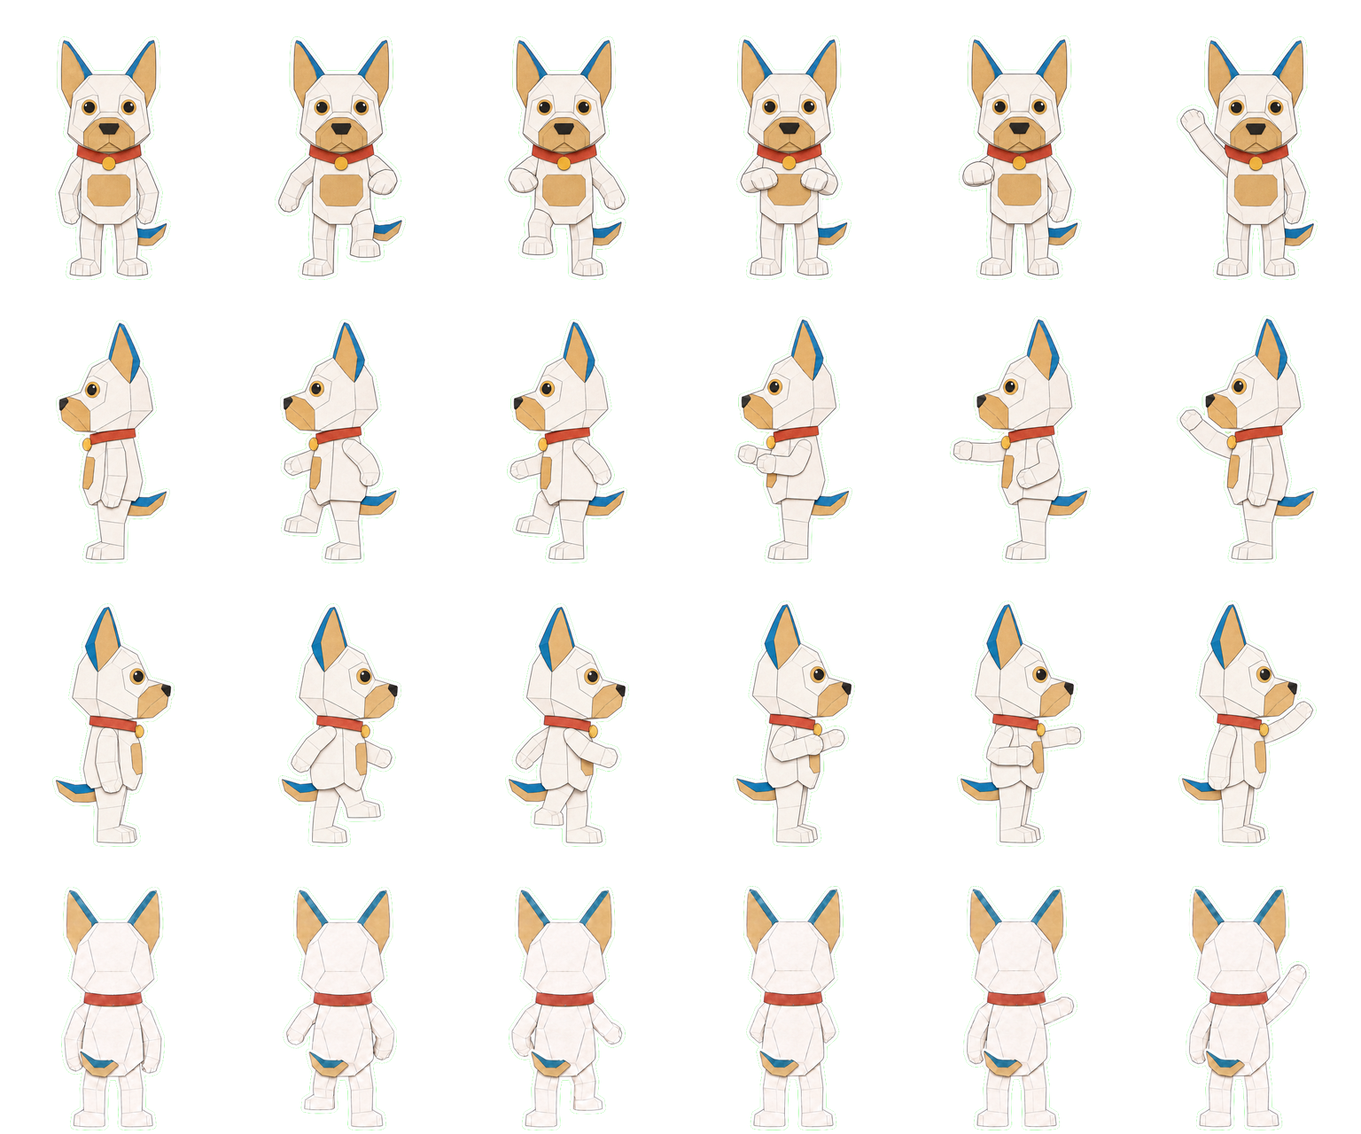
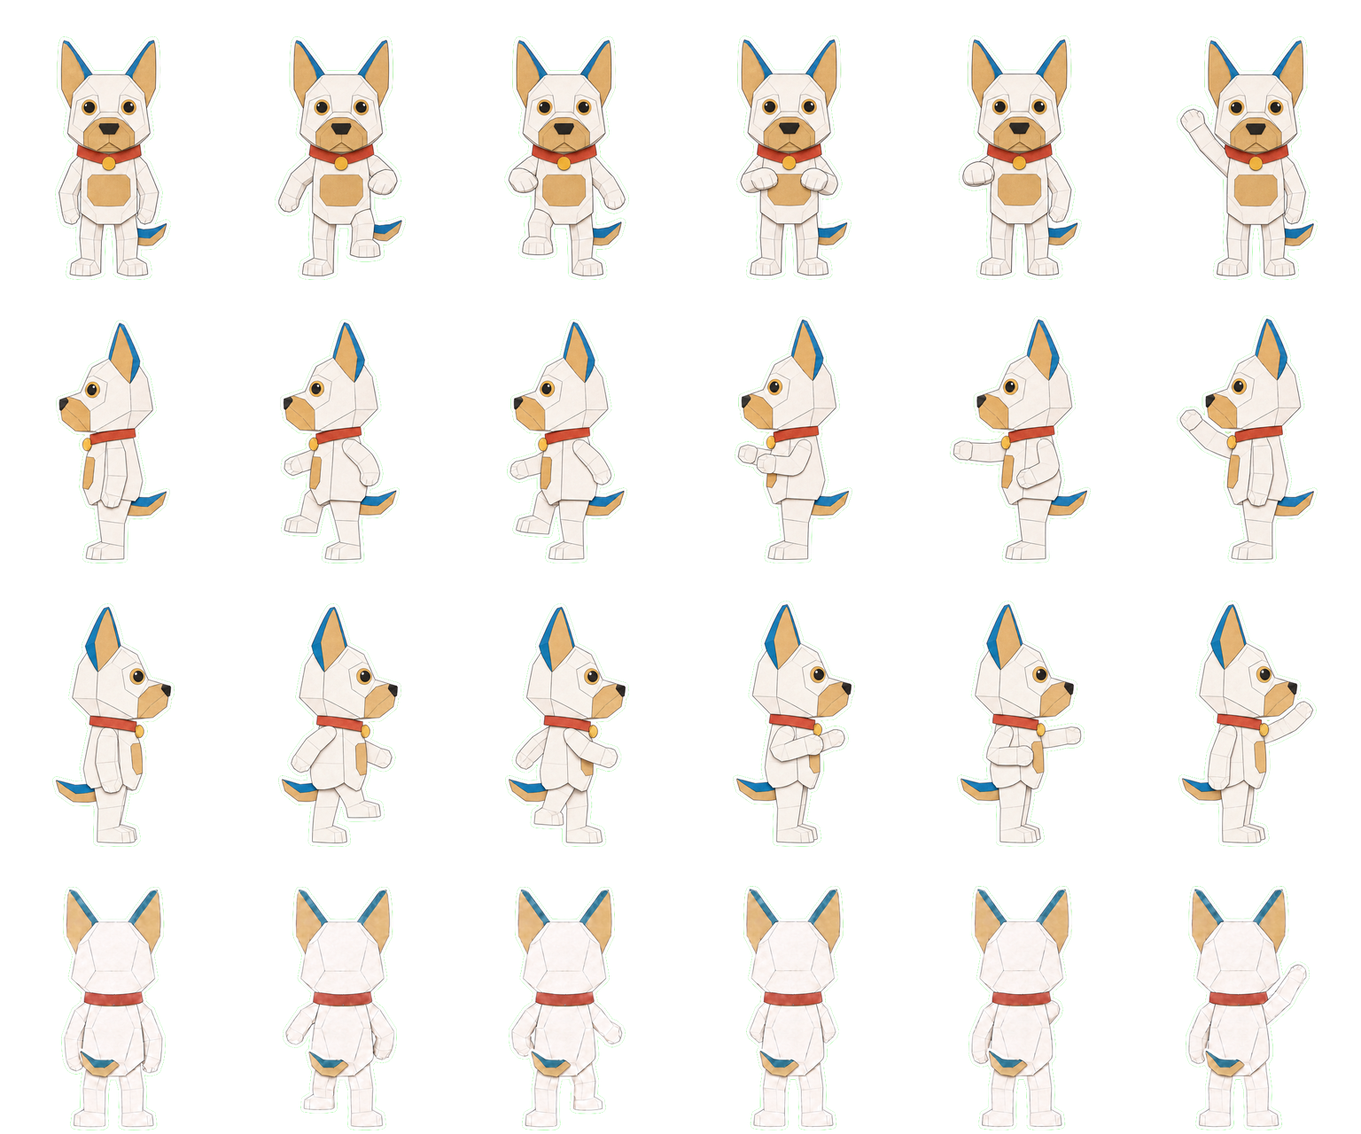
Primepaw: the robot dog's pushing cell seen from behind hides the paw
The back walk sheet drew the fifth cell, the paw pushed forward, with that arm
raised out to the side and the paw showing. A GPT Image 2.6 edit (seed 20261143)
sends the arm forward so only a stub shows at the shoulder, the way the cat's
back sheet has it, and changes nothing else. pet/robot-walk.png is rebuilt and
uploaded to the canvas as a new asset; the Pets boards name it. The pet README
carries the edit and its prompt. Canvas v122.

diff --git a/mockups/primepaw/DioramaPets.dc.html b/mockups/primepaw/DioramaPets.dc.html
@@ -200,7 +200,7 @@ const STATES = [{ id: 'roam', t: 'Roam' }, { id: 'working', t: 'Work' }, { id: '
 const onStandee = (fn) => window.PetStandee ? fn(window.PetStandee) : document.addEventListener('pet-standee', () => fn(window.PetStandee), { once: true });
 const FACING = (dx, dy) => Math.abs(dx) >= Math.abs(dy) ? (dx >= 0 ? 'right' : 'left') : (dy >= 0 ? 'down' : 'up');
 const BUBBLE = { working: 'Writing the parser', attention: 'Needs a staging token' };
-const SHEETS = {"robot":{"layout":"sheet","cols":6,"rows":4,"cell":{"w":256,"h":320},"columns":["stand","stomp-left","stomp-right","work-up","work-forward","wave"],"facings":["down","left","right","up"],"sheet":{"w":1536,"h":1280},"standing":0.86,"src":"/_blob/1748ca6490dbedc469a09eccde205f1f"},"dog":{"layout":"sheet","cols":6,"rows":4,"cell":{"w":256,"h":320},"columns":["stand","stomp-left","stomp-right","work-up","work-forward","wave"],"facings":["down","left","right","up"],"sheet":{"w":1536,"h":1280},"standing":0.86,"src":"/_blob/bd60c38b84f66616f8224e74bdf4d2cf"},"cat":{"layout":"sheet","cols":6,"rows":4,"cell":{"w":256,"h":320},"columns":["stand","stomp-left","stomp-right","work-up","work-forward","wave"],"facings":["down","left","right","up"],"sheet":{"w":1536,"h":1280},"standing":0.86,"src":"/_blob/eea99f7a9ab642aecf06ca931c83d617"}}, WALK_H = 104; // the standing figure's height on the floor
+const SHEETS = {"robot":{"layout":"sheet","cols":6,"rows":4,"cell":{"w":256,"h":320},"columns":["stand","stomp-left","stomp-right","work-up","work-forward","wave"],"facings":["down","left","right","up"],"sheet":{"w":1536,"h":1280},"standing":0.86,"src":"/_blob/21d0915356dadf4fbcb2992c973934bc"},"dog":{"layout":"sheet","cols":6,"rows":4,"cell":{"w":256,"h":320},"columns":["stand","stomp-left","stomp-right","work-up","work-forward","wave"],"facings":["down","left","right","up"],"sheet":{"w":1536,"h":1280},"standing":0.86,"src":"/_blob/bd60c38b84f66616f8224e74bdf4d2cf"},"cat":{"layout":"sheet","cols":6,"rows":4,"cell":{"w":256,"h":320},"columns":["stand","stomp-left","stomp-right","work-up","work-forward","wave"],"facings":["down","left","right","up"],"sheet":{"w":1536,"h":1280},"standing":0.86,"src":"/_blob/eea99f7a9ab642aecf06ca931c83d617"}}, WALK_H = 104; // the standing figure's height on the floor
 const SPEED = 92; // px per second
 // the round: feet points on the floor (x as a share of the floor's width, since the floor is as wide as its column;
 // y in px, since it is always 260 tall), what a walker does when it gets to each corner, and the corner each starts at

diff --git a/mockups/primepaw/DioramaPetsDark.dc.html b/mockups/primepaw/DioramaPetsDark.dc.html
@@ -200,7 +200,7 @@ const STATES = [{ id: 'roam', t: 'Roam' }, { id: 'working', t: 'Work' }, { id: '
 const onStandee = (fn) => window.PetStandee ? fn(window.PetStandee) : document.addEventListener('pet-standee', () => fn(window.PetStandee), { once: true });
 const FACING = (dx, dy) => Math.abs(dx) >= Math.abs(dy) ? (dx >= 0 ? 'right' : 'left') : (dy >= 0 ? 'down' : 'up');
 const BUBBLE = { working: 'Writing the parser', attention: 'Needs a staging token' };
-const SHEETS = {"robot":{"layout":"sheet","cols":6,"rows":4,"cell":{"w":256,"h":320},"columns":["stand","stomp-left","stomp-right","work-up","work-forward","wave"],"facings":["down","left","right","up"],"sheet":{"w":1536,"h":1280},"standing":0.86,"src":"/_blob/1748ca6490dbedc469a09eccde205f1f"},"dog":{"layout":"sheet","cols":6,"rows":4,"cell":{"w":256,"h":320},"columns":["stand","stomp-left","stomp-right","work-up","work-forward","wave"],"facings":["down","left","right","up"],"sheet":{"w":1536,"h":1280},"standing":0.86,"src":"/_blob/bd60c38b84f66616f8224e74bdf4d2cf"},"cat":{"layout":"sheet","cols":6,"rows":4,"cell":{"w":256,"h":320},"columns":["stand","stomp-left","stomp-right","work-up","work-forward","wave"],"facings":["down","left","right","up"],"sheet":{"w":1536,"h":1280},"standing":0.86,"src":"/_blob/eea99f7a9ab642aecf06ca931c83d617"}}, WALK_H = 104; // the standing figure's height on the floor
+const SHEETS = {"robot":{"layout":"sheet","cols":6,"rows":4,"cell":{"w":256,"h":320},"columns":["stand","stomp-left","stomp-right","work-up","work-forward","wave"],"facings":["down","left","right","up"],"sheet":{"w":1536,"h":1280},"standing":0.86,"src":"/_blob/21d0915356dadf4fbcb2992c973934bc"},"dog":{"layout":"sheet","cols":6,"rows":4,"cell":{"w":256,"h":320},"columns":["stand","stomp-left","stomp-right","work-up","work-forward","wave"],"facings":["down","left","right","up"],"sheet":{"w":1536,"h":1280},"standing":0.86,"src":"/_blob/bd60c38b84f66616f8224e74bdf4d2cf"},"cat":{"layout":"sheet","cols":6,"rows":4,"cell":{"w":256,"h":320},"columns":["stand","stomp-left","stomp-right","work-up","work-forward","wave"],"facings":["down","left","right","up"],"sheet":{"w":1536,"h":1280},"standing":0.86,"src":"/_blob/eea99f7a9ab642aecf06ca931c83d617"}}, WALK_H = 104; // the standing figure's height on the floor
 const SPEED = 92; // px per second
 // the round: feet points on the floor (x as a share of the floor's width, since the floor is as wide as its column;
 // y in px, since it is always 260 tall), what a walker does when it gets to each corner, and the corner each starts at

diff --git a/mockups/primepaw/pet/README.md b/mockups/primepaw/pet/README.md
@@ -144,9 +144,11 @@ back; it took two edits of that sheet to land the tail (the prompts below): the 
 and the second (seeds 20261140 and 20261141, the second kept) moved its base to the centre of the
 rump, where the puppy's is. A third edit (seed 20261142) then fixed the typing cell, which the sheet
 had drawn with the arms bent up and the fists beside the shoulders: now the upper arms go down the
-sides and only the elbows show, the way the puppy's and the cat's do, and that one is the source.
-Its peeking frame is the tallest of the three characters because the ears stand up and the error and
-ask marks sit above them.
+sides and only the elbows show, the way the puppy's and the cat's do; and a fourth (seed 20261143)
+fixed the pushing cell, whose arm was raised out to the side with the paw showing: now it goes
+forward from the shoulder and only a stub of it shows, the paw out of sight in front, like the
+cat's. That one is the source. Its peeking frame is the tallest of the three characters because the
+ears stand up and the error and ask marks sit above them.
 
 ## The prompts
 
@@ -277,7 +279,7 @@ start.
 
 **The walk sheets** (1536 by 1024, GPT Image 2.6, the turnaround first and the body second, one per
 facing; seeds 20261108 to 20261111 for the puppy, 20261112 to 20261115 for the cat and 20261135 to 20261138 for the robot dog, down, left, right,
-up, every first seed kept but the robot dog's back, edited three times, below). The front: "The first reference image is a character turnaround of the paper cut-out a friendly floppy-eared puppy: its front, its left side, its back and its right side. The second reference image is the same character from the front. Draw the character exactly as the turnaround's first figure, the front shows it (the same cream paper face, kraft brown floppy ears and eye patch, red collar with its tag, pink cheeks, pen-ink features, the white die-cut sticker border), as a stop-motion sprite sheet: a grid of 3 columns and 2 rows, 6 cells of equal size, on a solid flat bright green (#00FF00) background, with no grid lines, no borders, no labels and no text. The 6 cells read left to right along the top row and then along the bottom row. In every cell the character is the same drawing at the same size as in the turnaround, seen straight from the front, facing the viewer, its body upright and square to the viewer in every cell, never turning, its feet on the same ground line, its head, body, ears and tail exactly alike from cell to cell, so that the six cells play as one animation of one figure. The 6 cells: 1. standing still with both paws relaxed at its sides, both feet planted, exactly like the turnaround's first figure, the front; 2. marching on the spot, a stomp: its right foot stays planted flat on the ground and its left foot is lifted a little way straight up off the ground, the foot kept flat and level exactly as it is when standing, the leg a little shorter and bent only a little at the knee, staying directly under the body, the sole never showing, the body a touch higher, the arms swinging, the left paw a little forward and the right a little back; 3. the other stomp: its left foot planted flat and its right foot lifted flat the same way, the arms swinging the other way; 4. working, both paws raised up in front of its chest as if typing on a keyboard; 5. working, one paw pushed forward as if pressing a button; 6. waving hello with one paw raised high above its head. Flat paper, no shadows, no gradients, like a paper puppet moved between photographs."
+up, every first seed kept but the robot dog's back, edited four times, below). The front: "The first reference image is a character turnaround of the paper cut-out a friendly floppy-eared puppy: its front, its left side, its back and its right side. The second reference image is the same character from the front. Draw the character exactly as the turnaround's first figure, the front shows it (the same cream paper face, kraft brown floppy ears and eye patch, red collar with its tag, pink cheeks, pen-ink features, the white die-cut sticker border), as a stop-motion sprite sheet: a grid of 3 columns and 2 rows, 6 cells of equal size, on a solid flat bright green (#00FF00) background, with no grid lines, no borders, no labels and no text. The 6 cells read left to right along the top row and then along the bottom row. In every cell the character is the same drawing at the same size as in the turnaround, seen straight from the front, facing the viewer, its body upright and square to the viewer in every cell, never turning, its feet on the same ground line, its head, body, ears and tail exactly alike from cell to cell, so that the six cells play as one animation of one figure. The 6 cells: 1. standing still with both paws relaxed at its sides, both feet planted, exactly like the turnaround's first figure, the front; 2. marching on the spot, a stomp: its right foot stays planted flat on the ground and its left foot is lifted a little way straight up off the ground, the foot kept flat and level exactly as it is when standing, the leg a little shorter and bent only a little at the knee, staying directly under the body, the sole never showing, the body a touch higher, the arms swinging, the left paw a little forward and the right a little back; 3. the other stomp: its left foot planted flat and its right foot lifted flat the same way, the arms swinging the other way; 4. working, both paws raised up in front of its chest as if typing on a keyboard; 5. working, one paw pushed forward as if pressing a button; 6. waving hello with one paw raised high above its head. Flat paper, no shadows, no gradients, like a paper puppet moved between photographs."
 
 The other three change the figure the prompt points at and the facing clause: the left side ("second
 figure, the left side"; "from the side in strict profile, turned to face the left edge of the picture, so
@@ -292,4 +294,4 @@ pushed paw is out of sight in front of it; in cells 2 and 3 the lifted foot is s
 off the ground directly under the body, the back of its heel toward the viewer, its sole never showing,
 never a leg angled out to the side").
 
-**The robot dog's back sheet** came back with two tails in every cell, the one lying across the back and a second hanging between the legs, and it took two edits of it (1536 by 1024, GPT Image 2.6, the sheet itself as the first reference and the body as the second) to land the tail, both opening the way the turnaround's edit did: "The first reference image is a stop-motion sprite sheet of a paper cut-out friendly angular robot hound seen from directly behind, facing straight away from the viewer: a grid of 3 columns and 2 rows, 6 cells of equal size, on a solid flat bright green (#00FF00) background. The second reference image is the same character from the front." The first edit (seed 20261139) took the hanging tail away: "...Reproduce the sprite sheet exactly as it is, every figure the same size and in the same place in its cell, in the same pose, with the same colours, the same pen-ink outlines, the same pen-drawn panel lines, the same faint paper grain and the same white die-cut sticker border around each figure, on the same solid flat bright green background with no grid lines, no borders, no labels and no text, changing only one thing, the same way in every one of the six cells: the robot hound has exactly one tail. Right now each figure shows two tails. The second tail, the short one hanging straight down from the middle of the bottom of its back between its legs, is removed, and that spot becomes plain sheet-white paper back panel (#fbf7ee) with the same pen-drawn panel lines, the two legs meeting the body as before. The one tail that stays is the one already sticking out sideways to the left of the picture: its short pointed kraft brown paper tail (#d9bc86) with its blue tip, starting at the centre of its rump at the bottom of its back right where the two legs meet the body and sticking out across its back to the left with its tip up near the left edge of its body, the whole tail visible, the same size, shape and colours as it is now. Nothing else about any cell changes: the head, the backs of the ears with their blue tips, the back of the red collar, the paws, the feet and each cell's pose stay exactly as they are. Flat paper, no shadows, no gradients, not 3D." It did, but the tail it kept started at the hip, at the side of the body, not at the centre the words asked for. The second (seeds 20261140 and 20261141) moved it: "...changing only one thing, the same way in every one of the six cells: where the tail starts. Right now the tail sticks out from the left hip, from the side of the body. Instead, seen from directly behind, the robot hound's short pointed kraft brown paper tail (#d9bc86) with its blue tip starts at the centre of its rump, in the middle of the bottom of its back right where the two legs meet the body, and sticks out sideways to the left of the picture, lying across the sheet-white back with its tip up near the left edge of the body. The whole tail is visible from behind: its base at the centre of the rump, its length going to the left across the back, its tip pointing up at the left, the same kraft brown paper with the same blue tip, the same pen outline and about the same size as the tail the front view shows peeking out at its hip, which is this same tail seen from the other side. It does not point straight up, does not hang down between the legs and does not start at the side of the body: it starts at the centre and goes to the left. The side of the body where the tail used to stick out becomes plain sheet-white paper (#fbf7ee) with the same panel lines, the white die-cut border following the body's outline there. Nothing else about any cell changes: the head, the backs of the ears with their blue tips, the back of the red collar, the paws, the feet and each cell's pose stay exactly as they are. Flat paper, no shadows, no gradients, not 3D." The first of that pair put the tail at the centre but hanging down between the legs; the second has it starting at the centre and sticking out to the left. That sheet's typing cell, the fourth, still had its arms bent up with the fists beside the shoulders, where the puppy's and the cat's show the upper arms going down the sides with only the elbows out; a third edit (seed 20261142, the same opening and the same two references) put them right: "...changing only one thing, in one cell only: the arms of the fourth cell, the first cell of the bottom row. In that cell the robot hound is working, both paws raised up in front of its chest as if typing on a keyboard, and seen from directly behind its paws and forearms are out of sight in front of its body. Right now that cell's arms are drawn wrong: they are bent upward with the fists raised beside its shoulders, out at the sides. Instead, its two angular sheet-white paper upper arms go straight down from its shoulders along the sides of its body, exactly as they do in the first cell, the one standing still, and about halfway down the body each elbow bends forward so that the forearm and the paw go out of sight in front of the body; from behind only the two elbows show, each poking out a little at the side of the body about halfway down its back, as a small angular sheet-white paper corner with the same pen-ink outline and panel lines, nothing raised above them and no paws visible anywhere. The head, the backs of the ears with their blue tips, the back of the red collar, the body, the tail, the two legs, the feet and the pose of that cell stay exactly as they are, and the white die-cut sticker border follows the arms' new outline. The other five cells do not change at all. Flat paper, no shadows, no gradients, not 3D." It changed that cell alone and is the sheet in use.
+**The robot dog's back sheet** came back with two tails in every cell, the one lying across the back and a second hanging between the legs, and it took two edits of it (1536 by 1024, GPT Image 2.6, the sheet itself as the first reference and the body as the second) to land the tail, both opening the way the turnaround's edit did: "The first reference image is a stop-motion sprite sheet of a paper cut-out friendly angular robot hound seen from directly behind, facing straight away from the viewer: a grid of 3 columns and 2 rows, 6 cells of equal size, on a solid flat bright green (#00FF00) background. The second reference image is the same character from the front." The first edit (seed 20261139) took the hanging tail away: "...Reproduce the sprite sheet exactly as it is, every figure the same size and in the same place in its cell, in the same pose, with the same colours, the same pen-ink outlines, the same pen-drawn panel lines, the same faint paper grain and the same white die-cut sticker border around each figure, on the same solid flat bright green background with no grid lines, no borders, no labels and no text, changing only one thing, the same way in every one of the six cells: the robot hound has exactly one tail. Right now each figure shows two tails. The second tail, the short one hanging straight down from the middle of the bottom of its back between its legs, is removed, and that spot becomes plain sheet-white paper back panel (#fbf7ee) with the same pen-drawn panel lines, the two legs meeting the body as before. The one tail that stays is the one already sticking out sideways to the left of the picture: its short pointed kraft brown paper tail (#d9bc86) with its blue tip, starting at the centre of its rump at the bottom of its back right where the two legs meet the body and sticking out across its back to the left with its tip up near the left edge of its body, the whole tail visible, the same size, shape and colours as it is now. Nothing else about any cell changes: the head, the backs of the ears with their blue tips, the back of the red collar, the paws, the feet and each cell's pose stay exactly as they are. Flat paper, no shadows, no gradients, not 3D." It did, but the tail it kept started at the hip, at the side of the body, not at the centre the words asked for. The second (seeds 20261140 and 20261141) moved it: "...changing only one thing, the same way in every one of the six cells: where the tail starts. Right now the tail sticks out from the left hip, from the side of the body. Instead, seen from directly behind, the robot hound's short pointed kraft brown paper tail (#d9bc86) with its blue tip starts at the centre of its rump, in the middle of the bottom of its back right where the two legs meet the body, and sticks out sideways to the left of the picture, lying across the sheet-white back with its tip up near the left edge of the body. The whole tail is visible from behind: its base at the centre of the rump, its length going to the left across the back, its tip pointing up at the left, the same kraft brown paper with the same blue tip, the same pen outline and about the same size as the tail the front view shows peeking out at its hip, which is this same tail seen from the other side. It does not point straight up, does not hang down between the legs and does not start at the side of the body: it starts at the centre and goes to the left. The side of the body where the tail used to stick out becomes plain sheet-white paper (#fbf7ee) with the same panel lines, the white die-cut border following the body's outline there. Nothing else about any cell changes: the head, the backs of the ears with their blue tips, the back of the red collar, the paws, the feet and each cell's pose stay exactly as they are. Flat paper, no shadows, no gradients, not 3D." The first of that pair put the tail at the centre but hanging down between the legs; the second has it starting at the centre and sticking out to the left. That sheet's typing cell, the fourth, still had its arms bent up with the fists beside the shoulders, where the puppy's and the cat's show the upper arms going down the sides with only the elbows out; a third edit (seed 20261142, the same opening and the same two references) put them right: "...changing only one thing, in one cell only: the arms of the fourth cell, the first cell of the bottom row. In that cell the robot hound is working, both paws raised up in front of its chest as if typing on a keyboard, and seen from directly behind its paws and forearms are out of sight in front of its body. Right now that cell's arms are drawn wrong: they are bent upward with the fists raised beside its shoulders, out at the sides. Instead, its two angular sheet-white paper upper arms go straight down from its shoulders along the sides of its body, exactly as they do in the first cell, the one standing still, and about halfway down the body each elbow bends forward so that the forearm and the paw go out of sight in front of the body; from behind only the two elbows show, each poking out a little at the side of the body about halfway down its back, as a small angular sheet-white paper corner with the same pen-ink outline and panel lines, nothing raised above them and no paws visible anywhere. The head, the backs of the ears with their blue tips, the back of the red collar, the body, the tail, the two legs, the feet and the pose of that cell stay exactly as they are, and the white die-cut sticker border follows the arms' new outline. The other five cells do not change at all. Flat paper, no shadows, no gradients, not 3D." It changed that cell alone. The pushing cell, the fifth, still raised its arm out to the side with the paw showing, where the cat's keeps it forward and hidden (the puppy's raises it too); a fourth edit (seed 20261143, the same opening and references) tucked it away: "...changing only one thing, in one cell only: the raised arm of the fifth cell, the middle cell of the bottom row. In that cell the robot hound is working, one paw pushed forward in front of it as if pressing a button, and seen from directly behind the pushed paw and its forearm are out of sight in front of its body. Right now that cell's arm is drawn wrong: the arm on the right side of the picture is raised out to the side at shoulder height with its paw showing. Instead, that arm goes forward from the shoulder, away from the viewer, so that from behind only the shoulder and a short stub of the angular sheet-white paper upper arm show, poking out a little at the right side of the body just below the red collar, with the same pen-ink outline and panel lines, and no paw is visible anywhere; the other arm, on the left side of the picture, stays hanging down at the side exactly as it is now. The head, the backs of the ears with their blue tips, the back of the red collar, the body, the tail, the two legs, the feet and the pose of that cell stay exactly as they are, and the white die-cut sticker border follows the arm's new outline. The other five cells do not change at all. Flat paper, no shadows, no gradients, not 3D." It changed that cell alone and is the sheet in use.
